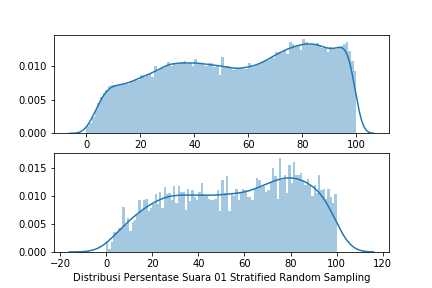
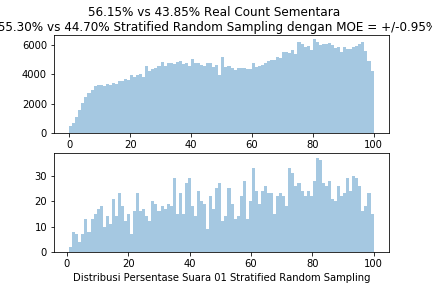
Updated StratifiedRandomSampling

diff --git a/stratifiedRandomSampling.py b/stratifiedRandomSampling.py
@@ -20,16 +20,23 @@ import matplotlib.pyplot as plt
 import random
 
 class dataPemilu:
-    def __init__(self, filename, dataSource):
+    def __init__(self, filename, dataSource, totalTPS, sampleSize):
+        self.totalTPS = totalTPS
+        self.sampleSize = sampleSize
         self.nolSatu = []
         self.nolDua = []
         self.totalSuara = []
         self.sampleNolSatu = []
         self.sampleNolDua = []
         self.sampleTotalSuara = []
+        self.nolSatuQuickCount = 0
+        self.nolDuaQuickCount = 0
+        self.totalSuaraQuickCount = 0
+        self.varianceQuickCount = 0
         self.filename = filename
         self.getRawData(dataSource)
         self.cleanData()
+        self.getQuickCountData()
 
     def getRawData(self, dataSource):
         data = pd.read_csv(self.filename)
@@ -57,90 +64,129 @@ class dataPemilu:
         self.nolDua = cleanNolDua
         self.totalSuara = np.add(cleanNolSatu, cleanNolDua).tolist()
     
-    def randomSample(self, sampleSize):
-        listSample = random.sample(range(len(self.totalSuara)), sampleSize)
+    def randomSample(self):
+        listSample = random.sample(range(len(self.totalSuara)), self.sampleSize)
         for x in listSample:
             self.sampleNolSatu.append(self.nolSatu[x])
             self.sampleNolDua.append(self.nolDua[x])
             self.sampleTotalSuara.append(self.totalSuara[x])
-        
-aceh = dataPemilu("Aceh.csv", "KPU")
-bali = dataPemilu("Bali.csv", "KPU")
-banten = dataPemilu("Banten.csv", "KPU")
-bengkulu = dataPemilu("Bengkulu.csv", "KPU")
-daerahIstimewaYogyakarta = dataPemilu("DaerahIstimewaYogyakarta.csv", "KPU")
-daerahKhususIbukotaJakarta = dataPemilu("DaerahKhususIbukotaJakarta.csv", "KPU")
-gorontalo = dataPemilu("Gorontalo.csv", "KPU")
-jambi = dataPemilu("Jambi.csv", "KPU")
-jawaBarat = dataPemilu("JawaBarat.csv", "KPU")
-jawaTengah = dataPemilu("JawaTengah.csv", "KPU")
-jawaTimur = dataPemilu("JawaTimur.csv", "KPU")
-kalimantanBarat = dataPemilu("KalimantanBarat.csv", "KPU")
-kalimantanSelatan = dataPemilu("KalimantanSelatan.csv", "KPU")
-kalimantanTengah = dataPemilu("KalimantanTengah.csv", "KPU")
-kalimantanTimur = dataPemilu("KalimantanTimur.csv", "KPU")
-kalimantanUtara = dataPemilu("KalimantanUtara.csv", "KPU")
-kepulauanBangka = dataPemilu("KepulauanBangka.csv", "KPU")
-kepulauanRiau = dataPemilu("KepulauanRiau.csv", "KPU")
-lampung = dataPemilu("Lampung.csv", "KPU")
-maluku = dataPemilu("Maluku.csv", "KPU")
-malukuUtara = dataPemilu("MalukuUtara.csv", "KPU")
-nusaTenggaraBarat = dataPemilu("NusaTenggaraBarat.csv", "KPU")
-nusaTenggaraTimur = dataPemilu("NusaTenggaraTimur.csv", "KPU")
-papua = dataPemilu("Papua.csv", "KPU")
-papuaBarat = dataPemilu("PapuaBarat.csv", "KPU")
-riau = dataPemilu("Riau.csv", "KPU")
-sulawesiBarat = dataPemilu("SulawesiBarat.csv", "KPU")
-sulawesiSelatan = dataPemilu("SulawesiSelatan.csv", "KPU")
-sulawesiTengah = dataPemilu("SulawesiTengah.csv", "KPU")
-sulawesiTenggara = dataPemilu("SulawesiTenggara.csv", "KPU")
-sulawesiUtara = dataPemilu("SulawesiUtara.csv", "KPU")
-sumateraBarat = dataPemilu("SumateraBarat.csv", "KPU")
-sumateraSelatan = dataPemilu("SumateraSelatan.csv", "KPU")
-sumateraUtara = dataPemilu("SumateraUtara.csv", "KPU")
+    
+    def getQuickCountData(self):
+        self.randomSample()
+        self.nolSatuQuickCount = np.sum(self.sampleNolSatu)*self.totalTPS/self.sampleSize
+        self.nolDuaQuickCount = np.sum(self.sampleNolDua)*self.totalTPS/self.sampleSize
+        self.totalSuaraQuickCount = np.sum(self.sampleTotalSuara, dtype=np.float64)*self.totalTPS/self.sampleSize # needs 64 bit to prevent overflow
 
-sampleSize = 4000
+    def getVariance(self, proporsi):
+        vhi = np.subtract(self.sampleNolSatu, np.multiply(proporsi, self.sampleTotalSuara))
+        vh = np.sum(vhi)/self.sampleSize
+        variance = np.sum(np.square(vhi-vh))/(self.sampleSize-1)
+        varianceQuickCount = variance*self.totalTPS*(self.totalTPS-self.sampleSize)/self.sampleSize
+        return varianceQuickCount
 
-aceh.randomSample(int(1.95/100*sampleSize))
-bali.randomSample(int(1.53/100*sampleSize))
-banten.randomSample(int(4.13/100*sampleSize))
-bengkulu.randomSample(int(0.76/100*sampleSize))
-daerahIstimewaYogyakarta.randomSample(int(1.46/100*sampleSize))
-daerahKhususIbukotaJakarta.randomSample(int(3.58/100*sampleSize))
-gorontalo.randomSample(int(0.42/100*sampleSize))
-jambi.randomSample(int(1.40/100*sampleSize))
-jawaBarat.randomSample(int(17.05/100*sampleSize))
-jawaTengah.randomSample(int(14.25/100*sampleSize))
-jawaTimur.randomSample(int(16.06/100*sampleSize))
-kalimantanBarat.randomSample(int(2.04/100*sampleSize))
-kalimantanSelatan.randomSample(int(1.34/100*sampleSize))
-kalimantanTengah.randomSample(int(1.00/100*sampleSize))
-kalimantanTimur.randomSample(int(1.34/100*sampleSize))
-kalimantanUtara.randomSample(int(0.27/100*sampleSize))
-kepulauanBangka.randomSample(int(0.47/100*sampleSize))
-kepulauanRiau.randomSample(int(0.67/100*sampleSize))
-lampung.randomSample(int(3.24/100*sampleSize))
-maluku.randomSample(int(0.68/100*sampleSize))
-malukuUtara.randomSample(int(0.47/100*sampleSize))
-nusaTenggaraBarat.randomSample(int(1.98/100*sampleSize))
-nusaTenggaraTimur.randomSample(int(1.85/100*sampleSize))
-papua.randomSample(int(1.88/100*sampleSize))
-papuaBarat.randomSample(int(0.48/100*sampleSize))
-riau.randomSample(int(2.18/100*sampleSize))
-sulawesiBarat.randomSample(int(0.48/100*sampleSize))
-sulawesiSelatan.randomSample(int(3.25/100*sampleSize))
-sulawesiTengah.randomSample(int(1.13/100*sampleSize))
-sulawesiTenggara.randomSample(int(0.97/100*sampleSize))
-sulawesiUtara.randomSample(int(0.97/100*sampleSize))
-sumateraBarat.randomSample(int(2.06/100*sampleSize))
-sumateraSelatan.randomSample(int(3.13/100*sampleSize))
-sumateraUtara.randomSample(int(5.27/100*sampleSize))
+sampleSize = 2000
+
+totalTPSAceh = 17389
+totalTPSBali = 12386
+totalTPSBanten = 33471
+totalTPSBengkulu = 6165
+totalTPSDaerahIstimewaYogyakarta = 11781
+totalTPSDaerahKhususIbukotaJakarta = 29063
+totalTPSGorontalo = 5866
+totalTPSJambi = 11342
+totalTPSJawaBarat = 70169
+totalTPSJawaTengah = 86121
+totalTPSJawaTimur = 67454
+totalTPSKalimantanBarat = 10791
+totalTPSKalimantanSelatan = 6722
+totalTPSKalimantanTengah = 4780
+totalTPSKalimantanTimur = 6780
+totalTPSKalimantanUtara = 1512
+totalTPSKepulauanBangka = 3597
+totalTPSKepulauanRiau = 4659
+totalTPSLampung = 20407
+totalTPSMaluku = 2705
+totalTPSMalukuUtara = 3805
+totalTPSNusaTenggaraBarat = 10082
+totalTPSNusaTenggaraTimur = 7656
+totalTPSPapua = 1006
+totalTPSPapuaBarat = 749
+totalTPSRiau = 13174
+totalTPSSulawesiBarat = 1857
+totalTPSSulawesiSelatan = 14608
+totalTPSSulawesiTengah = 3719
+totalTPSSulawesiTenggara = 3710
+totalTPSSulawesiUtara = 3986
+totalTPSSumateraBarat = 13804
+totalTPSSumateraSelatan = 19427
+totalTPSSumateraUtara = 30883
+totalTPSNasional = 809497
+
+aceh = dataPemilu("Aceh.csv", "KPU", totalTPSAceh, int(1.95/100*sampleSize))
+bali = dataPemilu("Bali.csv", "KPU", totalTPSBali, int(1.53/100*sampleSize))
+banten = dataPemilu("Banten.csv", "KPU", totalTPSBanten, int(4.13/100*sampleSize))
+bengkulu = dataPemilu("Bengkulu.csv", "KPU", totalTPSBengkulu, int(0.76/100*sampleSize))
+daerahIstimewaYogyakarta = dataPemilu("DaerahIstimewaYogyakarta.csv", "KPU", totalTPSDaerahIstimewaYogyakarta, int(1.46/100*sampleSize))
+daerahKhususIbukotaJakarta = dataPemilu("DaerahKhususIbukotaJakarta.csv", "KPU", totalTPSDaerahKhususIbukotaJakarta, int(3.58/100*sampleSize))
+gorontalo = dataPemilu("Gorontalo.csv", "KPU", totalTPSGorontalo, int(0.42/100*sampleSize))
+jambi = dataPemilu("Jambi.csv", "KPU", totalTPSJambi, int(1.40/100*sampleSize))
+jawaBarat = dataPemilu("JawaBarat.csv", "KPU", totalTPSJawaBarat, int(17.05/100*sampleSize))
+jawaTengah = dataPemilu("JawaTengah.csv", "KPU", totalTPSJawaTengah, int(14.25/100*sampleSize))
+jawaTimur = dataPemilu("JawaTimur.csv", "KPU", totalTPSJawaTimur, int(16.06/100*sampleSize))
+kalimantanBarat = dataPemilu("KalimantanBarat.csv", "KPU", totalTPSKalimantanBarat, int(2.04/100*sampleSize))
+kalimantanSelatan = dataPemilu("KalimantanSelatan.csv", "KPU", totalTPSKalimantanSelatan, int(1.34/100*sampleSize))
+kalimantanTengah = dataPemilu("KalimantanTengah.csv", "KPU", totalTPSKalimantanTengah, int(1.00/100*sampleSize))
+kalimantanTimur = dataPemilu("KalimantanTimur.csv", "KPU", totalTPSKalimantanTimur, int(1.34/100*sampleSize))
+kalimantanUtara = dataPemilu("KalimantanUtara.csv", "KPU", totalTPSKalimantanUtara, int(0.27/100*sampleSize))
+kepulauanBangka = dataPemilu("KepulauanBangka.csv", "KPU", totalTPSKepulauanBangka, int(0.47/100*sampleSize))
+kepulauanRiau = dataPemilu("KepulauanRiau.csv", "KPU", totalTPSKepulauanRiau, int(0.67/100*sampleSize))
+lampung = dataPemilu("Lampung.csv", "KPU", totalTPSLampung, int(3.24/100*sampleSize))
+maluku = dataPemilu("Maluku.csv", "KPU", totalTPSMaluku, int(0.68/100*sampleSize))
+malukuUtara = dataPemilu("MalukuUtara.csv", "KPU", totalTPSMalukuUtara, int(0.47/100*sampleSize))
+nusaTenggaraBarat = dataPemilu("NusaTenggaraBarat.csv", "KPU", totalTPSNusaTenggaraBarat, int(1.98/100*sampleSize))
+nusaTenggaraTimur = dataPemilu("NusaTenggaraTimur.csv", "KPU", totalTPSNusaTenggaraTimur, int(1.85/100*sampleSize))
+papua = dataPemilu("Papua.csv", "KPU", totalTPSPapua, int(1.88/100*sampleSize))
+papuaBarat = dataPemilu("PapuaBarat.csv", "KPU", totalTPSPapuaBarat, int(0.48/100*sampleSize))
+riau = dataPemilu("Riau.csv", "KPU", totalTPSRiau, int(2.18/100*sampleSize))
+sulawesiBarat = dataPemilu("SulawesiBarat.csv", "KPU", totalTPSSulawesiBarat, int(0.48/100*sampleSize))
+sulawesiSelatan = dataPemilu("SulawesiSelatan.csv", "KPU", totalTPSSulawesiSelatan, int(3.25/100*sampleSize))
+sulawesiTengah = dataPemilu("SulawesiTengah.csv", "KPU", totalTPSSulawesiTengah, int(1.13/100*sampleSize))
+sulawesiTenggara = dataPemilu("SulawesiTenggara.csv", "KPU", totalTPSSulawesiTenggara, int(0.97/100*sampleSize))
+sulawesiUtara = dataPemilu("SulawesiUtara.csv", "KPU", totalTPSSulawesiUtara, int(0.97/100*sampleSize))
+sumateraBarat = dataPemilu("SumateraBarat.csv", "KPU", totalTPSSumateraBarat, int(2.06/100*sampleSize))
+sumateraSelatan = dataPemilu("SumateraSelatan.csv", "KPU", totalTPSSumateraSelatan, int(3.13/100*sampleSize))
+sumateraUtara = dataPemilu("SumateraUtara.csv", "KPU", totalTPSSumateraUtara, int(5.27/100*sampleSize))
+
+## Real Count KPU
 
 nolSatuNasional = aceh.nolSatu + bali.nolSatu + banten.nolSatu + bengkulu.nolSatu + daerahIstimewaYogyakarta.nolSatu + daerahKhususIbukotaJakarta.nolSatu + gorontalo.nolSatu + jambi.nolSatu + jawaBarat.nolSatu + jawaTengah.nolSatu + jawaTimur.nolSatu + kalimantanBarat.nolSatu + kalimantanSelatan.nolSatu + kalimantanTengah.nolSatu + kalimantanTimur.nolSatu + kalimantanUtara.nolSatu + kepulauanBangka.nolSatu + kepulauanRiau.nolSatu + lampung.nolSatu + maluku.nolSatu + malukuUtara.nolSatu + nusaTenggaraBarat.nolSatu + nusaTenggaraTimur.nolSatu + papua.nolSatu + papuaBarat.nolSatu + riau.nolSatu + sulawesiBarat.nolSatu + sulawesiSelatan.nolSatu + sulawesiTengah.nolSatu + sulawesiTenggara.nolSatu + sulawesiUtara.nolSatu + sumateraBarat.nolSatu + sumateraSelatan.nolSatu + sumateraUtara.nolSatu
 nolDuaNasional = aceh.nolDua + bali.nolDua + banten.nolDua + bengkulu.nolDua + daerahIstimewaYogyakarta.nolDua + daerahKhususIbukotaJakarta.nolDua + gorontalo.nolDua + jambi.nolDua + jawaBarat.nolDua + jawaTengah.nolDua + jawaTimur.nolDua + kalimantanBarat.nolDua + kalimantanSelatan.nolDua + kalimantanTengah.nolDua + kalimantanTimur.nolDua + kalimantanUtara.nolDua + kepulauanBangka.nolDua + kepulauanRiau.nolDua + lampung.nolDua + maluku.nolDua + malukuUtara.nolDua + nusaTenggaraBarat.nolDua + nusaTenggaraTimur.nolDua + papua.nolDua + papuaBarat.nolDua + riau.nolDua + sulawesiBarat.nolDua + sulawesiSelatan.nolDua + sulawesiTengah.nolDua + sulawesiTenggara.nolDua + sulawesiUtara.nolDua + sumateraBarat.nolDua + sumateraSelatan.nolDua + sumateraUtara.nolDua
 totalSuaraNasional = aceh.totalSuara + bali.totalSuara + banten.totalSuara + bengkulu.totalSuara + daerahIstimewaYogyakarta.totalSuara + daerahKhususIbukotaJakarta.totalSuara + gorontalo.totalSuara + jambi.totalSuara + jawaBarat.totalSuara + jawaTengah.totalSuara + jawaTimur.totalSuara + kalimantanBarat.totalSuara + kalimantanSelatan.totalSuara + kalimantanTengah.totalSuara + kalimantanTimur.totalSuara + kalimantanUtara.totalSuara + kepulauanBangka.totalSuara + kepulauanRiau.totalSuara + lampung.totalSuara + maluku.totalSuara + malukuUtara.totalSuara + nusaTenggaraBarat.totalSuara + nusaTenggaraTimur.totalSuara + papua.totalSuara + papuaBarat.totalSuara + riau.totalSuara + sulawesiBarat.totalSuara + sulawesiSelatan.totalSuara + sulawesiTengah.totalSuara + sulawesiTenggara.totalSuara + sulawesiUtara.totalSuara + sumateraBarat.totalSuara + sumateraSelatan.totalSuara + sumateraUtara.totalSuara
 
 persentaseNolSatuNasional = np.divide(nolSatuNasional, totalSuaraNasional)*100
+
+meanNolSatuNasional = np.sum(nolSatuNasional)/np.sum(totalSuaraNasional)*100
+meanNolDuaNasional = 100 - meanNolSatuNasional
+
+## Stratified Random Sampling
+
+nolSatuQuickCountNasional = aceh.nolSatuQuickCount + bali.nolSatuQuickCount + banten.nolSatuQuickCount + bengkulu.nolSatuQuickCount + daerahIstimewaYogyakarta.nolSatuQuickCount + daerahKhususIbukotaJakarta.nolSatuQuickCount + gorontalo.nolSatuQuickCount + jambi.nolSatuQuickCount + jawaBarat.nolSatuQuickCount + jawaTengah.nolSatuQuickCount + jawaTimur.nolSatuQuickCount + kalimantanBarat.nolSatuQuickCount + kalimantanSelatan.nolSatuQuickCount + kalimantanTengah.nolSatuQuickCount + kalimantanTimur.nolSatuQuickCount + kalimantanUtara.nolSatuQuickCount + kepulauanBangka.nolSatuQuickCount + kepulauanRiau.nolSatuQuickCount + lampung.nolSatuQuickCount + maluku.nolSatuQuickCount + malukuUtara.nolSatuQuickCount + nusaTenggaraBarat.nolSatuQuickCount + nusaTenggaraTimur.nolSatuQuickCount + papua.nolSatuQuickCount + papuaBarat.nolSatuQuickCount + riau.nolSatuQuickCount + sulawesiBarat.nolSatuQuickCount + sulawesiSelatan.nolSatuQuickCount + sulawesiTengah.nolSatuQuickCount + sulawesiTenggara.nolSatuQuickCount + sulawesiUtara.nolSatuQuickCount + sumateraBarat.nolSatuQuickCount + sumateraSelatan.nolSatuQuickCount + sumateraUtara.nolSatuQuickCount
+nolDuaQuickCountNasional = aceh.nolDuaQuickCount + bali.nolDuaQuickCount + banten.nolDuaQuickCount + bengkulu.nolDuaQuickCount + daerahIstimewaYogyakarta.nolDuaQuickCount + daerahKhususIbukotaJakarta.nolDuaQuickCount + gorontalo.nolDuaQuickCount + jambi.nolDuaQuickCount + jawaBarat.nolDuaQuickCount + jawaTengah.nolDuaQuickCount + jawaTimur.nolDuaQuickCount + kalimantanBarat.nolDuaQuickCount + kalimantanSelatan.nolDuaQuickCount + kalimantanTengah.nolDuaQuickCount + kalimantanTimur.nolDuaQuickCount + kalimantanUtara.nolDuaQuickCount + kepulauanBangka.nolDuaQuickCount + kepulauanRiau.nolDuaQuickCount + lampung.nolDuaQuickCount + maluku.nolDuaQuickCount + malukuUtara.nolDuaQuickCount + nusaTenggaraBarat.nolDuaQuickCount + nusaTenggaraTimur.nolDuaQuickCount + papua.nolDuaQuickCount + papuaBarat.nolDuaQuickCount + riau.nolDuaQuickCount + sulawesiBarat.nolDuaQuickCount + sulawesiSelatan.nolDuaQuickCount + sulawesiTengah.nolDuaQuickCount + sulawesiTenggara.nolDuaQuickCount + sulawesiUtara.nolDuaQuickCount + sumateraBarat.nolDuaQuickCount + sumateraSelatan.nolDuaQuickCount + sumateraUtara.nolDuaQuickCount
+totalSuaraQuickCountNasional = aceh.totalSuaraQuickCount + bali.totalSuaraQuickCount + banten.totalSuaraQuickCount + bengkulu.totalSuaraQuickCount + daerahIstimewaYogyakarta.totalSuaraQuickCount + daerahKhususIbukotaJakarta.totalSuaraQuickCount + gorontalo.totalSuaraQuickCount + jambi.totalSuaraQuickCount + jawaBarat.totalSuaraQuickCount + jawaTengah.totalSuaraQuickCount + jawaTimur.totalSuaraQuickCount + kalimantanBarat.totalSuaraQuickCount + kalimantanSelatan.totalSuaraQuickCount + kalimantanTengah.totalSuaraQuickCount + kalimantanTimur.totalSuaraQuickCount + kalimantanUtara.totalSuaraQuickCount + kepulauanBangka.totalSuaraQuickCount + kepulauanRiau.totalSuaraQuickCount + lampung.totalSuaraQuickCount + maluku.totalSuaraQuickCount + malukuUtara.totalSuaraQuickCount + nusaTenggaraBarat.totalSuaraQuickCount + nusaTenggaraTimur.totalSuaraQuickCount + papua.totalSuaraQuickCount + papuaBarat.totalSuaraQuickCount + riau.totalSuaraQuickCount + sulawesiBarat.totalSuaraQuickCount + sulawesiSelatan.totalSuaraQuickCount + sulawesiTengah.totalSuaraQuickCount + sulawesiTenggara.totalSuaraQuickCount + sulawesiUtara.totalSuaraQuickCount + sumateraBarat.totalSuaraQuickCount + sumateraSelatan.totalSuaraQuickCount + sumateraUtara.totalSuaraQuickCount
+
+proporsiNolSatu = nolSatuQuickCountNasional/totalSuaraQuickCountNasional
+proporsiNolDua = nolDuaQuickCountNasional/totalSuaraQuickCountNasional
+persentaseNolSatu = proporsiNolSatu*100
+persentaseNolDua = proporsiNolDua*100
+
+print(proporsiNolSatu)
+print(proporsiNolDua)
+
+varianceNasional = aceh.getVariance(proporsiNolSatu) + bali.getVariance(proporsiNolSatu) + banten.getVariance(proporsiNolSatu) + bengkulu.getVariance(proporsiNolSatu) + daerahIstimewaYogyakarta.getVariance(proporsiNolSatu) + daerahKhususIbukotaJakarta.getVariance(proporsiNolSatu) + gorontalo.getVariance(proporsiNolSatu) + jambi.getVariance(proporsiNolSatu) + jawaBarat.getVariance(proporsiNolSatu) + jawaTengah.getVariance(proporsiNolSatu) + jawaTimur.getVariance(proporsiNolSatu) + kalimantanBarat.getVariance(proporsiNolSatu) + kalimantanSelatan.getVariance(proporsiNolSatu) + kalimantanTengah.getVariance(proporsiNolSatu) + kalimantanTimur.getVariance(proporsiNolSatu) + kalimantanUtara.getVariance(proporsiNolSatu) + kepulauanBangka.getVariance(proporsiNolSatu) + kepulauanRiau.getVariance(proporsiNolSatu) + lampung.getVariance(proporsiNolSatu) + maluku.getVariance(proporsiNolSatu) + malukuUtara.getVariance(proporsiNolSatu) + nusaTenggaraBarat.getVariance(proporsiNolSatu) + nusaTenggaraTimur.getVariance(proporsiNolSatu) + papua.getVariance(proporsiNolSatu) + papuaBarat.getVariance(proporsiNolSatu) + riau.getVariance(proporsiNolSatu) + sulawesiBarat.getVariance(proporsiNolSatu) + sulawesiSelatan.getVariance(proporsiNolSatu) + sulawesiTengah.getVariance(proporsiNolSatu) + sulawesiTenggara.getVariance(proporsiNolSatu) + sulawesiUtara.getVariance(proporsiNolSatu) + sumateraBarat.getVariance(proporsiNolSatu) + sumateraSelatan.getVariance(proporsiNolSatu) + sumateraUtara.getVariance(proporsiNolSatu)
+
+standardErrorProporsi = np.sqrt(1/np.square(totalSuaraQuickCountNasional)*varianceNasional)
+marginOfErrorProporsi = 2*standardErrorProporsi
+marginOfErrorPercentage = marginOfErrorProporsi*100
 
 sampleNolSatuNasional = aceh.sampleNolSatu + bali.sampleNolSatu + banten.sampleNolSatu + bengkulu.sampleNolSatu + daerahIstimewaYogyakarta.sampleNolSatu + daerahKhususIbukotaJakarta.sampleNolSatu + gorontalo.sampleNolSatu + jambi.sampleNolSatu + jawaBarat.sampleNolSatu + jawaTengah.sampleNolSatu + jawaTimur.sampleNolSatu + kalimantanBarat.sampleNolSatu + kalimantanSelatan.sampleNolSatu + kalimantanTengah.sampleNolSatu + kalimantanTimur.sampleNolSatu + kalimantanUtara.sampleNolSatu + kepulauanBangka.sampleNolSatu + kepulauanRiau.sampleNolSatu + lampung.sampleNolSatu + maluku.sampleNolSatu + malukuUtara.sampleNolSatu + nusaTenggaraBarat.sampleNolSatu + nusaTenggaraTimur.sampleNolSatu + papua.sampleNolSatu + papuaBarat.sampleNolSatu + riau.sampleNolSatu + sulawesiBarat.sampleNolSatu + sulawesiSelatan.sampleNolSatu + sulawesiTengah.sampleNolSatu + sulawesiTenggara.sampleNolSatu + sulawesiUtara.sampleNolSatu + sumateraBarat.sampleNolSatu + sumateraSelatan.sampleNolSatu + sumateraUtara.sampleNolSatu
 sampleNolDuaNasional = aceh.sampleNolDua + bali.sampleNolDua + banten.sampleNolDua + bengkulu.sampleNolDua + daerahIstimewaYogyakarta.sampleNolDua + daerahKhususIbukotaJakarta.sampleNolDua + gorontalo.sampleNolDua + jambi.sampleNolDua + jawaBarat.sampleNolDua + jawaTengah.sampleNolDua + jawaTimur.sampleNolDua + kalimantanBarat.sampleNolDua + kalimantanSelatan.sampleNolDua + kalimantanTengah.sampleNolDua + kalimantanTimur.sampleNolDua + kalimantanUtara.sampleNolDua + kepulauanBangka.sampleNolDua + kepulauanRiau.sampleNolDua + lampung.sampleNolDua + maluku.sampleNolDua + malukuUtara.sampleNolDua + nusaTenggaraBarat.sampleNolDua + nusaTenggaraTimur.sampleNolDua + papua.sampleNolDua + papuaBarat.sampleNolDua + riau.sampleNolDua + sulawesiBarat.sampleNolDua + sulawesiSelatan.sampleNolDua + sulawesiTengah.sampleNolDua + sulawesiTenggara.sampleNolDua + sulawesiUtara.sampleNolDua + sumateraBarat.sampleNolDua + sumateraSelatan.sampleNolDua + sumateraUtara.sampleNolDua
@@ -150,21 +196,9 @@ persentaseSampleNolSatuNasional = np.divide(sampleNolSatuNasional, sampleTotalSu
 persentaseSampleNolSatuNasionalSeries = pd.Series(persentaseSampleNolSatuNasional,
                                                       name = "Distribusi Persentase Suara 01 Stratified Random Sampling")
 
-meanNolSatuNasional = np.sum(nolSatuNasional)/np.sum(totalSuaraNasional)*100
-meanNolDuaNasional = 100 - meanNolSatuNasional
-
-meanSampleNolSatuNasional = np.sum(sampleNolSatuNasional)/np.sum(sampleTotalSuaraNasional)*100
-meanSampleNolDuaNasional = 100 - meanSampleNolSatuNasional
-sampleStandardErrorOfMean = np.std(persentaseSampleNolSatuNasional)/np.sqrt(sampleSize)
-marginErrorPercentage = sampleStandardErrorOfMean * 2.58
-
-#sampleStandardErrorProportion = np.sqrt((meanSampleNolSatuNasional/100)*(meanNolDuaNasional/100)/sampleSize)
-#marginErrorProportion = sampleStandardErrorProportion * 2.58
-#marginErrorPercentage = marginErrorProportion * 100
-
 plotDistribusiNasionalStratifiedRandomSample, ax = plt.subplots(2,1)
-sns.distplot(persentaseNolSatuNasional, bins=100, ax = ax[0])
-sns.distplot(persentaseSampleNolSatuNasionalSeries, bins=100, ax = ax[1])
-plotDistribusiNasionalStratifiedRandomSample.savefig("StratifiedRandomSample.png")
+sns.distplot(persentaseNolSatuNasional, kde=False, bins=100, ax = ax[0])
+sns.distplot(persentaseSampleNolSatuNasionalSeries, kde=False, bins=100, ax = ax[1])
+plotDistribusiNasionalStratifiedRandomSample.suptitle('{:.2f}% vs {:.2f}% Real Count Sementara \n {:.2f}% vs {:.2f}% Stratified Random Sampling dengan MOE = +/-{:.2f}%'.format(meanNolSatuNasional, meanNolDuaNasional, persentaseNolSatu, persentaseNolDua, marginOfErrorPercentage))
 
-plotDistribusiNasionalStratifiedRandomSample.suptitle('{:.2f}% vs {:.2f}% Real Count Sementara \n {:.2f}% vs {:.2f}% Stratified Random Sampling dengan MOE = +/-{:.2f}%'.format(meanNolSatuNasional, meanNolDuaNasional, meanSampleNolSatuNasional, meanSampleNolDuaNasional, marginErrorPercentage))
+plotDistribusiNasionalStratifiedRandomSample.savefig("StratifiedRandomSample4.png")
